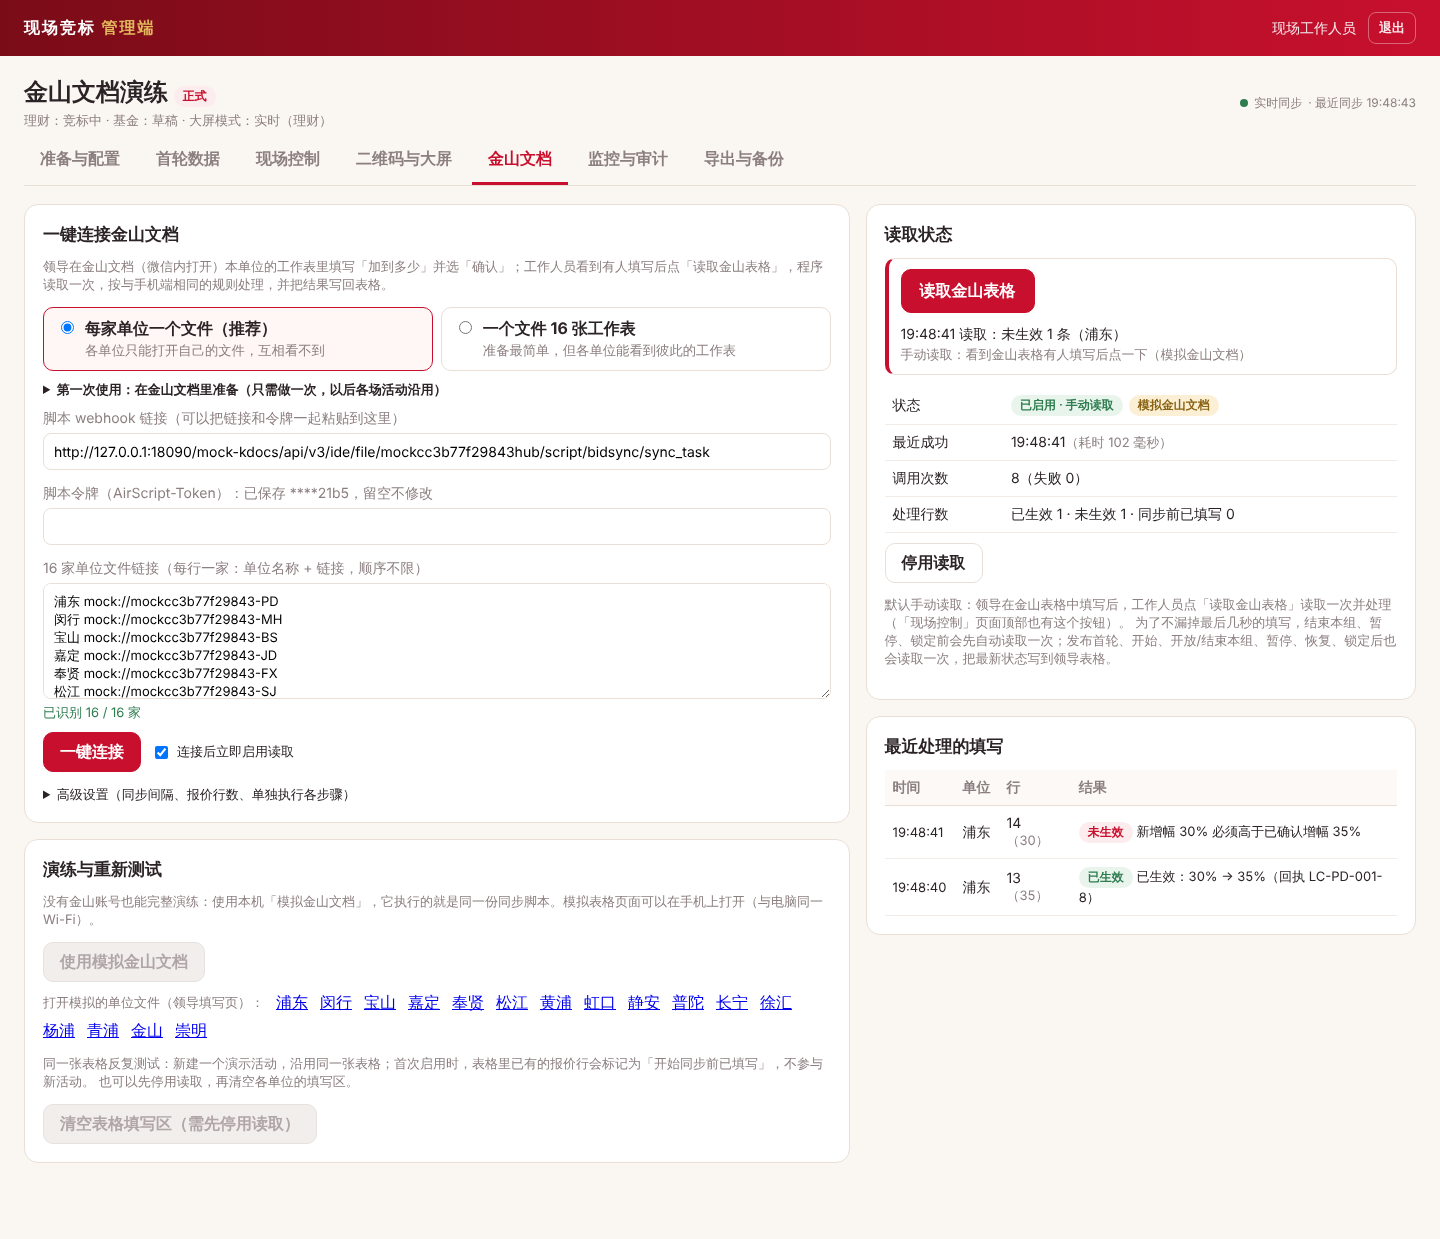
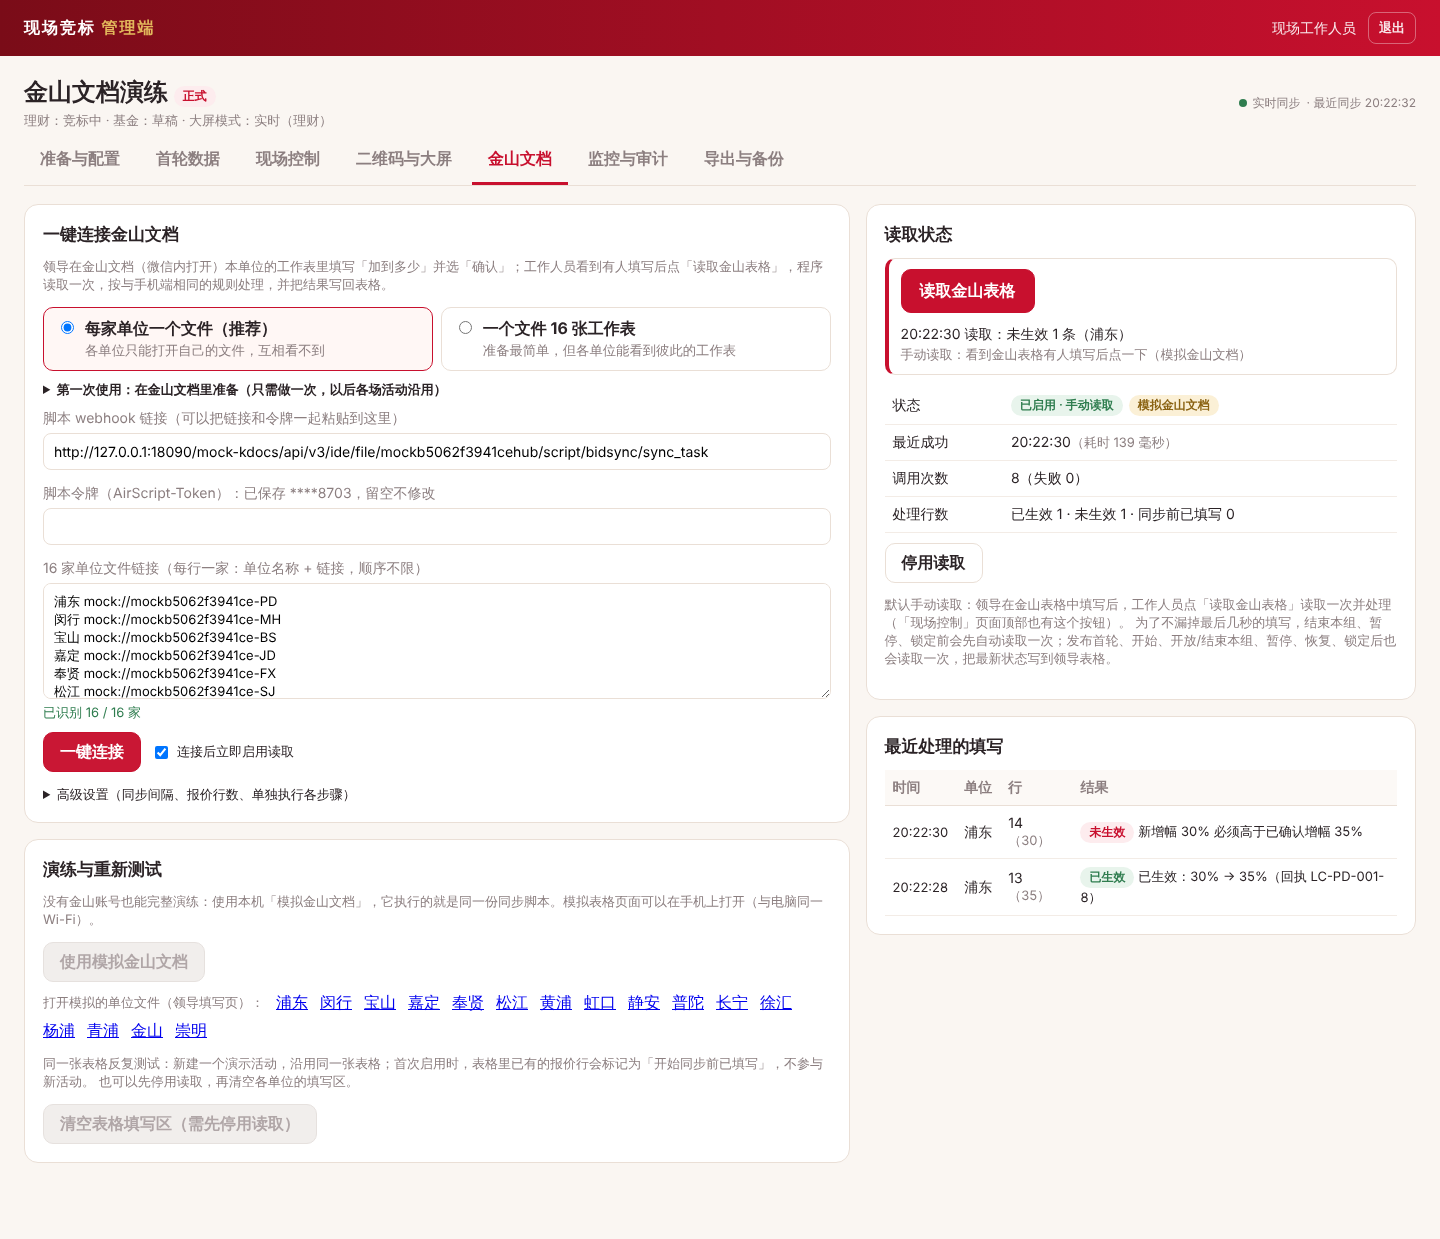
同步脚本 1.2.0：逐个打开单位文件读写后立即关闭（金山同一时刻只能额外打开一个文件）
真实金山文档实测报错「同一时刻只能打开一个额外文件，请先调用文件的close方法」。
- 读写按文件分组，逐个 打开 → 写 → 读 → 关闭，再处理下一个；返回的读取结果保持原顺序
- 模拟金山文档加上同样的限制，避免再次出现
- 测试：三个文件交替读写

Claude-Session: https://claude.ai/code/session_01U6Pgri5g78g3NTCDgE6cee

diff --git a/apps/server/src/services/kdocs/airscript.ts b/apps/server/src/services/kdocs/airscript.ts
@@ -9,7 +9,7 @@
  * 语法保持 ES5（var / function），不依赖新语法。
  */
 
-export const AIRSCRIPT_VERSION = '1.1.1';
+export const AIRSCRIPT_VERSION = '1.2.0';
 
 export const AIRSCRIPT_SOURCE = `/**
  * 理财、基金现场竞标 · 金山文档同步脚本 v${AIRSCRIPT_VERSION}（协议 1）
@@ -90,67 +90,81 @@ function main(argv) {
     return result;
   }
 
-  // 本文件 + 本次用到的其他文件（每个文件只打开一次，结束时关闭）
-  var books = { '': { app: Application, names: listSheetNames(Application), error: null } };
-  var opened = [];
-  result.sheets = books[''].names;
-  function bookOf(file) {
+  // 按文件分组：金山同一时刻只能额外打开一个文件，所以逐个打开 → 读写 → 关闭，再处理下一个
+  var groups = {};
+  var order = [];
+  function groupOf(file) {
     var key = file || '';
-    if (books[key]) return books[key];
-    try {
-      var f = KSDrive.openFile(file);
-      opened.push(f);
-      books[key] = { app: f.Application, names: listSheetNames(f.Application), error: null };
-    } catch (e) {
-      books[key] = { app: null, names: [], error: '无法打开文件（请确认链接正确、脚本所有者有权限，且已在「服务」中添加云文档API）：' + e };
+    if (!groups[key]) {
+      groups[key] = { file: key, writes: [], reads: [] };
+      order.push(key);
     }
-    return books[key];
+    return groups[key];
   }
+  for (var i = 0; i < writes.length; i++) groupOf(writes[i].file).writes.push(writes[i]);
+  for (var j = 0; j < reads.length; j++) groupOf(reads[j].file).reads.push({ index: j, read: reads[j] });
+  var readResults = [];
   var missing = {};
-  function sheetOf(file, name) {
-    var b = bookOf(file);
-    if (b.error) return { error: b.error };
-    if (b.names.indexOf(name) < 0) {
-      missing[name] = true;
-      return { error: null, sheet: null };
-    }
-    return { error: null, sheet: b.app.Sheets.Item(name) };
-  }
+  result.sheets = listSheetNames(Application);
 
-  // 先写后读：本次读取的内容已包含本次写入
-  for (var i = 0; i < writes.length; i++) {
-    var w = writes[i];
-    var ws = sheetOf(w.file, w.sheet);
-    if (ws.error) {
-      result.errors.push(w.sheet + '：' + ws.error);
-      continue;
-    }
-    if (!ws.sheet) continue;
-    try {
-      ws.sheet.Range(w.range).Value = isSingleCell(w.values) ? w.values[0][0] : w.values;
-      result.written++;
-    } catch (e) {
-      result.errors.push('写入 ' + w.sheet + '!' + w.range + ' 失败：' + e);
-    }
-  }
-  for (var j = 0; j < reads.length; j++) {
-    var r = reads[j];
-    var rs = sheetOf(r.file, r.sheet);
-    if (rs.error || !rs.sheet) {
-      result.reads.push({ file: r.file, sheet: r.sheet, range: r.range, values: null, error: rs.error || undefined });
-      continue;
+  for (var g = 0; g < order.length; g++) {
+    var grp = groups[order[g]];
+    var app = Application;
+    var opened = null;
+    var openError = null;
+    if (grp.file) {
+      try {
+        opened = KSDrive.openFile(grp.file);
+        app = opened.Application;
+      } catch (e) {
+        openError = '无法打开文件（请确认链接正确、脚本所有者有权限，且已在「服务」中添加云文档API）：' + e;
+      }
     }
     try {
-      result.reads.push({ file: r.file, sheet: r.sheet, range: r.range, values: to2D(rs.sheet.Range(r.range).Value2) });
-    } catch (e2) {
-      result.reads.push({ file: r.file, sheet: r.sheet, range: r.range, values: null, error: String(e2) });
+      var names = openError ? [] : listSheetNames(app);
+      // 先写后读：本次读取的内容已包含本次写入
+      for (var wi = 0; wi < grp.writes.length; wi++) {
+        var w = grp.writes[wi];
+        if (openError) {
+          result.errors.push(w.sheet + '：' + openError);
+          continue;
+        }
+        if (names.indexOf(w.sheet) < 0) {
+          missing[w.sheet] = true;
+          continue;
+        }
+        try {
+          app.Sheets.Item(w.sheet).Range(w.range).Value = isSingleCell(w.values) ? w.values[0][0] : w.values;
+          result.written++;
+        } catch (e1) {
+          result.errors.push('写入 ' + w.sheet + '!' + w.range + ' 失败：' + e1);
+        }
+      }
+      for (var ri = 0; ri < grp.reads.length; ri++) {
+        var r = grp.reads[ri].read;
+        var out = { file: r.file, sheet: r.sheet, range: r.range, values: null };
+        if (openError) {
+          out.error = openError;
+        } else if (names.indexOf(r.sheet) < 0) {
+          missing[r.sheet] = true;
+        } else {
+          try {
+            out.values = to2D(app.Sheets.Item(r.sheet).Range(r.range).Value2);
+          } catch (e2) {
+            out.error = String(e2);
+          }
+        }
+        readResults[grp.reads[ri].index] = out;
+      }
+    } finally {
+      if (opened) {
+        try {
+          opened.close();
+        } catch (e3) {}
+      }
     }
   }
-  for (var k = 0; k < opened.length; k++) {
-    try {
-      opened[k].close();
-    } catch (e3) {}
-  }
+  result.reads = readResults;
   for (var m in missing) result.missingSheets.push(m);
   if (result.errors.length > 0) result.ok = false;
   return result;

diff --git a/apps/server/test/kdocs.test.ts b/apps/server/test/kdocs.test.ts
@@ -90,6 +90,19 @@ describe('AirScript 与接口', () => {
     ]);
     expect(r.reads[1].values).toBeNull();
     expect((runAirScript(wb, { protocol: 99 }) as any).ok).toBe(false);
+    // 跨文件读写：与金山一致，同一时刻只能额外打开一个文件；脚本逐个打开、读写、关闭
+    const files = new Map<string, MockWorkbook>(['a', 'b', 'c'].map((id) => {
+      const f = new MockWorkbook(id);
+      f.addSheet(`表${id}`).write('A1', id);
+      return [`mock://${id}`, f];
+    }));
+    const multi = runAirScript(wb, {
+      protocol: 1,
+      writes: [{ file: 'mock://b', sheet: '表b', range: 'B1', values: [['写入b']] }],
+      reads: ['a', 'b', 'c'].map((id) => ({ file: `mock://${id}`, sheet: `表${id}`, range: 'A1:B1' })),
+    }, [], (u) => files.get(String(u))!) as any;
+    expect(multi.errors).toEqual([]);
+    expect(multi.reads.map((x: any) => x.values)).toEqual([[['a', null]], [['b', '写入b']], [['c', null]]]);
     // 在编辑器里直接运行（无参数）：自检，日志说明「云文档API」是否可用
     const logs: string[] = [];
     const self = runAirScript(wb, undefined, logs, () => wb) as any;

diff --git a/apps/server/src/services/kdocs/mock.ts b/apps/server/src/services/kdocs/mock.ts
@@ -246,13 +246,24 @@ const compiled = new vm.Script(`(function () {\n${AIRSCRIPT_SOURCE}\n})()`, { fi
 
 /** 在隔离环境中运行 AirScript 源码 */
 export function runAirScript(wb: MockWorkbook, argv: unknown, logs: string[] = [], openFile?: (url: unknown) => MockWorkbook): unknown {
+  let openCount = 0;
   const sandbox = {
     Application: wb.application(),
     KSDrive: {
+      // 与金山一致：同一时刻只能额外打开一个文件，须先 close
       openFile: (url: unknown) => {
         if (!openFile) throw new Error('KSDrive 不可用');
+        if (openCount > 0) throw new Error('同一时刻只能打开一个额外文件，请先调用文件的close方法');
         const other = openFile(url);
-        return { Application: other.application(), close: () => {} };
+        openCount++;
+        let closed = false;
+        return {
+          Application: other.application(),
+          close: () => {
+            if (!closed) openCount--;
+            closed = true;
+          },
+        };
       },
     },
     Context: { argv: JSON.parse(JSON.stringify(argv ?? {})) },

diff --git a/docs/验收记录.md b/docs/验收记录.md
@@ -79,6 +79,7 @@
 | 每家单位一个文件 | 总控文件中的脚本通过 KSDrive.openFile 读写 16 个单位文件；浦东文件中只有浦东工作表，闵行文件中看不到浦东任何内容；链接清单缺单位、重复、无法识别均提示；某家文件打不开时指出是哪家；一个文件 16 张表方式仍可用 | 通过（模拟） |
 | 手动读取（默认） | 启用后只读取一次（标记同步前已填写），之后不自动读取；领导填写后 2.5 秒内调用次数不变；点「读取金山表格」才处理并返回「新生效 n 条（单位）」；「现场控制」页面顶部有读取按钮（E2E） | 通过 |
 | 一键连接 | 保存 → 测试 → 写版式 → 开启同步逐项报告；沿用上次表格；同表格换活动时自动停止旧活动同步 | 通过 |
+| 真实金山文档（第一轮实测） | 脚本令牌 + webhook 调用成功、脚本在金山运行并返回结果（实测清单第 1 项前半通过）；发现并修复：需添加「云文档API」服务并保存、同一时刻只能额外打开一个文件（脚本 1.2.0 改为逐个打开读写关闭，模拟金山文档同样限制） | 进行中 |
 | 真实金山文档 | 见《金山文档接入说明》第七节实测清单（含 KSDrive.openFile 是否可用、打开 16 个文件的耗时） | **待实测** |
 
 ## 尚需在正式使用前完成（需真实设备/环境）
